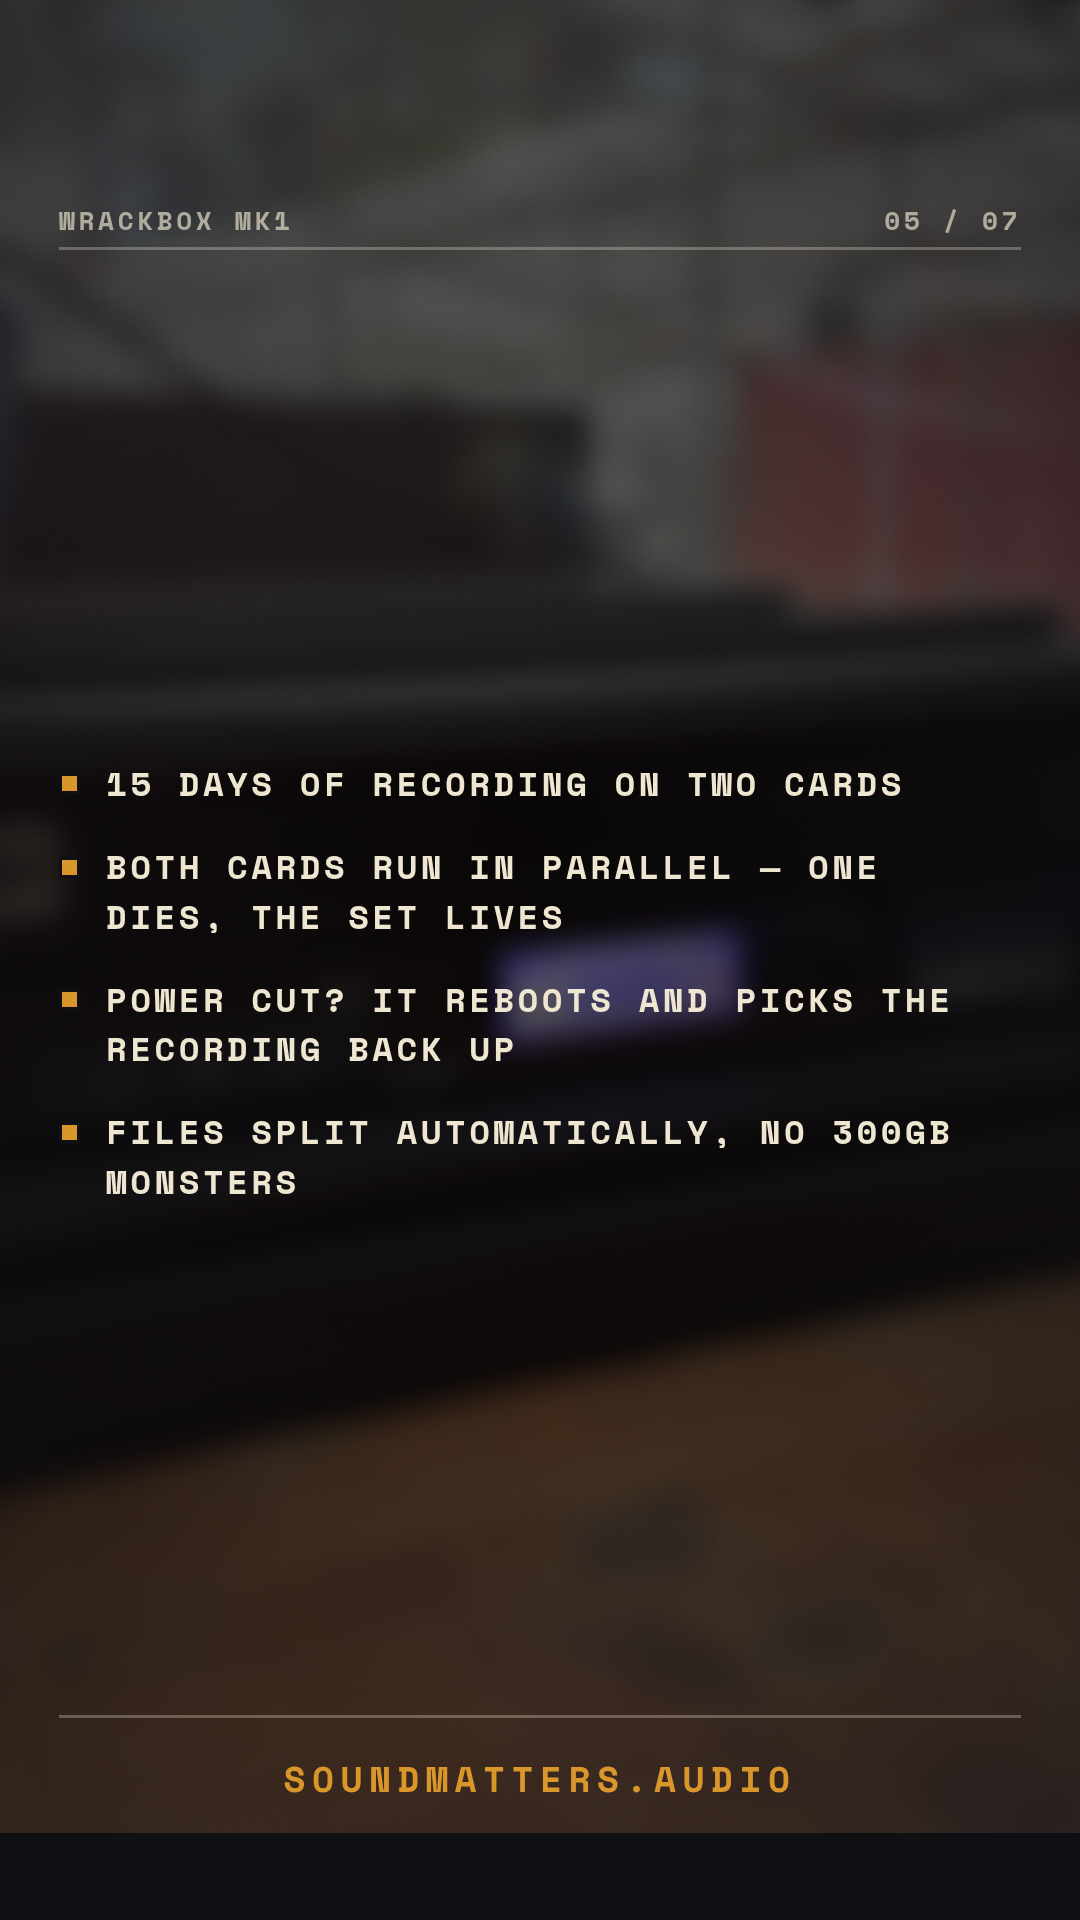
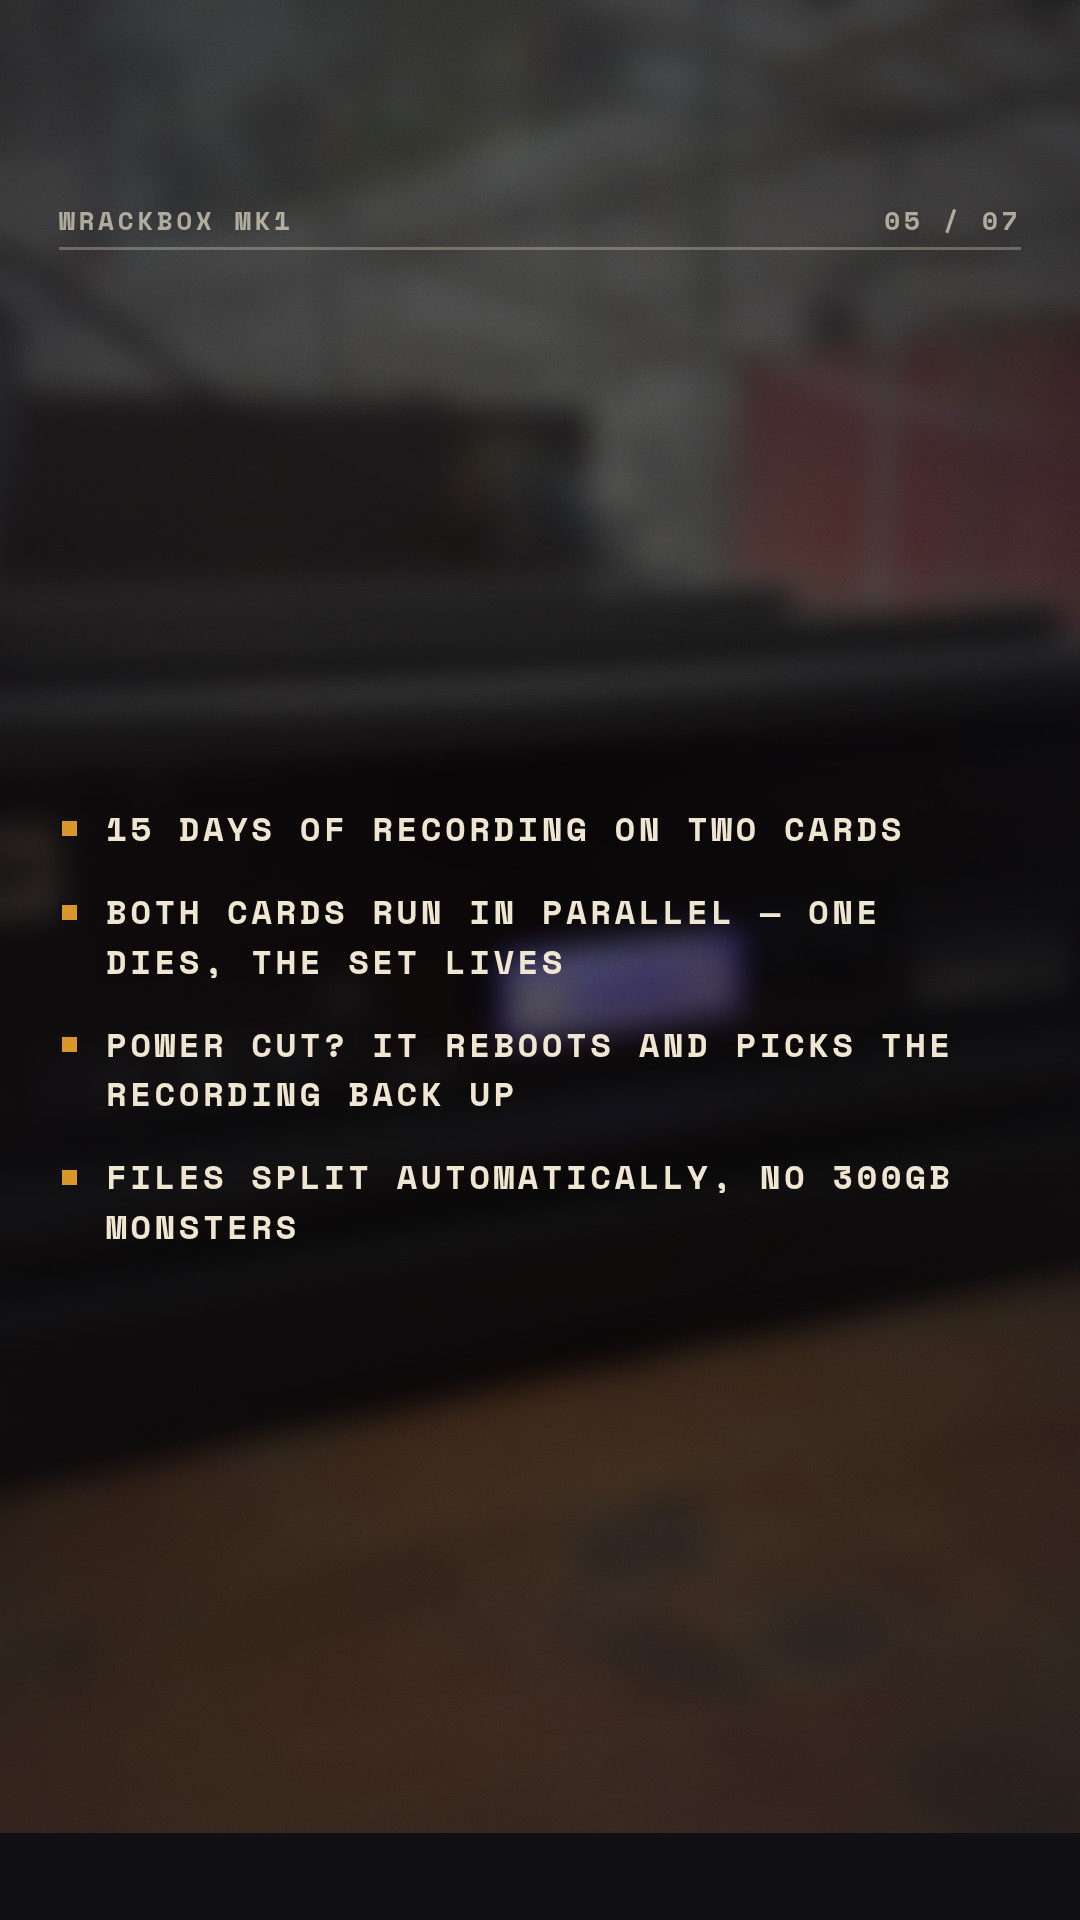
Drop the foot from the stories, keep it on the end card
Six slides that each repeat the address turn it into wallpaper. The address
belongs to the card whose job it is, so the rule and the line come off the
stories and stay on the end card.

Also: the hook gets its exclamation mark.

Claude-Session: https://claude.ai/code/session_014PtFkxHhK32uMmnGPQQ2vj

Changed region(s): [[0.0611, 0.4062, 0.8861, 0.6562], [0.2444, 0.9062, 0.5806, 0.9375], [0.6111, 0.9062, 0.7333, 0.9375]]

diff --git a/stories/wrackbox/build.py b/stories/wrackbox/build.py
@@ -74,7 +74,7 @@ STORIES = [
         "crop": (0.50, 0.50),
         "blocks": [
             {"kind": "fett", "size": 62, "lines": [
-                "hey event people",
+                "hey event people!",
                 "i built a recording rig",
                 "for festivals.",
             ]},
@@ -312,7 +312,6 @@ def story_html(story: dict, count: int) -> str:
   <div class="plate">
     <div class="strip"><span>wrackbox mk1</span><span>{story['n']:02d} / {count:02d}</span></div>
     <div class="body">{blocks}</div>
-    <div class="foot"><div class="address">soundmatters.audio</div></div>
   </div>
 </div>"""
 
